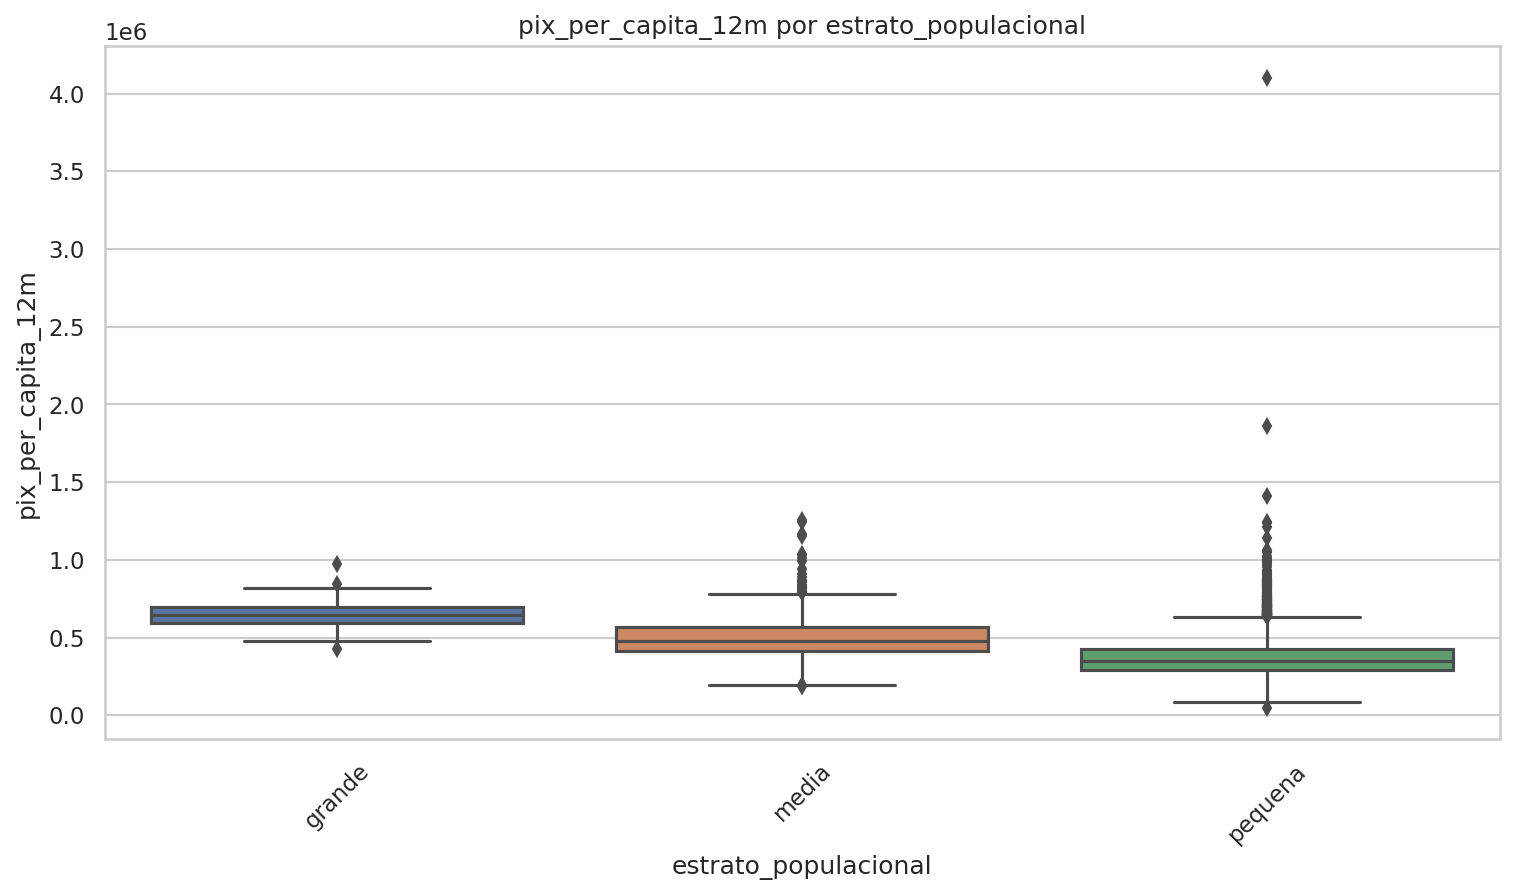
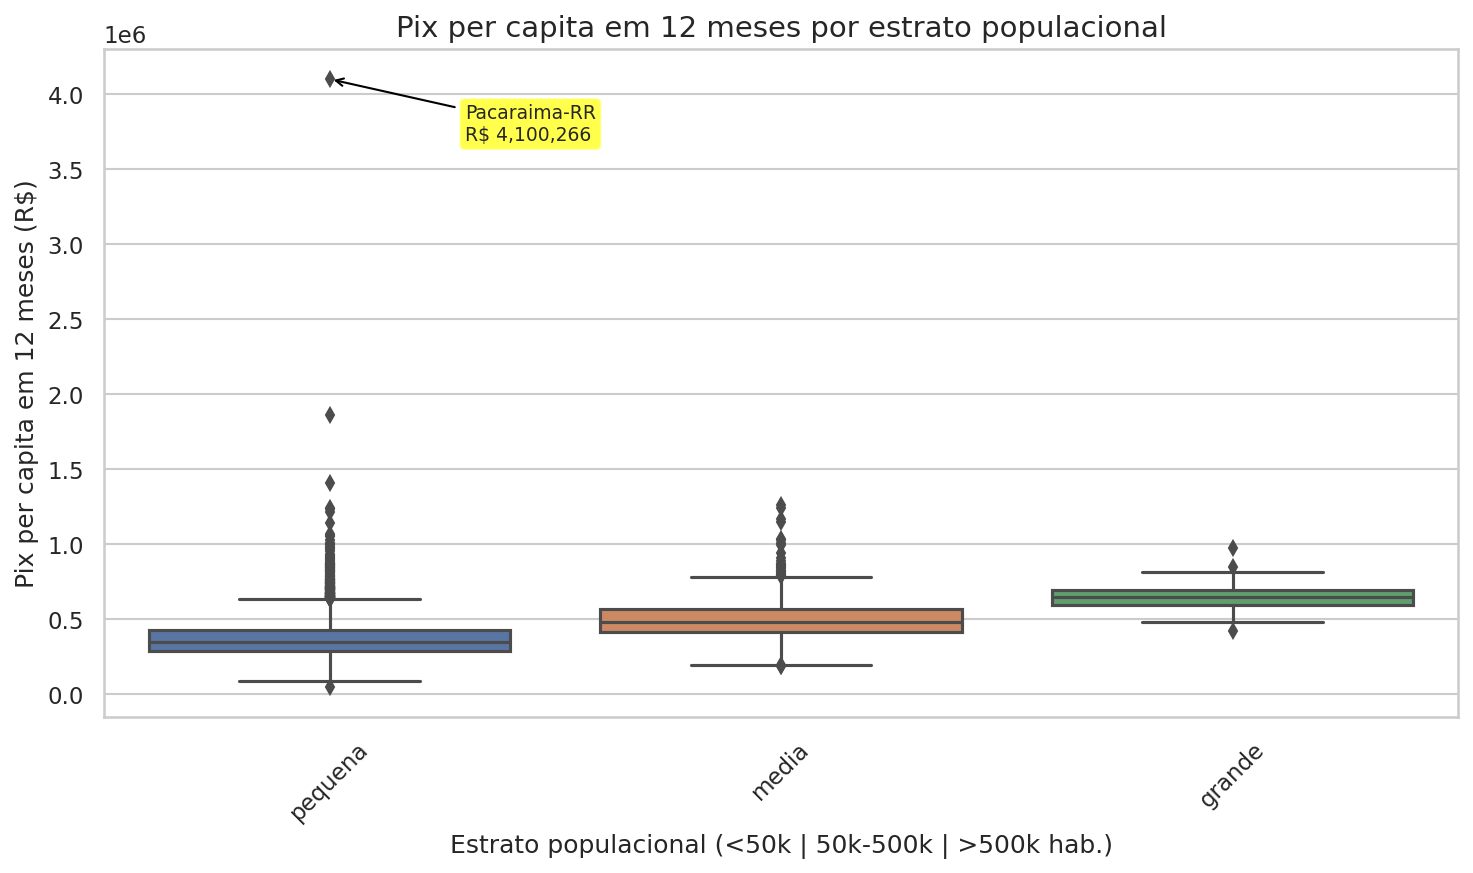
feat(utils/notebooks): melhora rótulos, unidades e legendas dos gráficos

diff --git a/src/utils/eda.py b/src/utils/eda.py
@@ -209,6 +209,8 @@ def plot_boxplot_by_group(
     column: str,
     group: str,
     title: str | None = None,
+    xlabel: str | None = None,
+    ylabel: str | None = None,
     filename: str | None = None,
 ) -> plt.Figure:
     """Gera boxplot de uma variável por grupo.
@@ -218,6 +220,8 @@ def plot_boxplot_by_group(
         column: Coluna numérica.
         group: Coluna categórica.
         title: Título do gráfico.
+        xlabel: Rótulo do eixo X.
+        ylabel: Rótulo do eixo Y (incluir unidade quando aplicável).
         filename: Nome do arquivo para salvar a figura.
 
     Returns:
@@ -227,6 +231,8 @@ def plot_boxplot_by_group(
     order = sorted(df[group].dropna().unique())
     sns.boxplot(data=df, x=group, y=column, ax=ax, order=order)
     ax.set_title(title or f"{column} por {group}")
+    ax.set_xlabel(xlabel or group)
+    ax.set_ylabel(ylabel or column)
     ax.tick_params(axis="x", rotation=45)
     if filename:
         save_figure(fig, filename)
